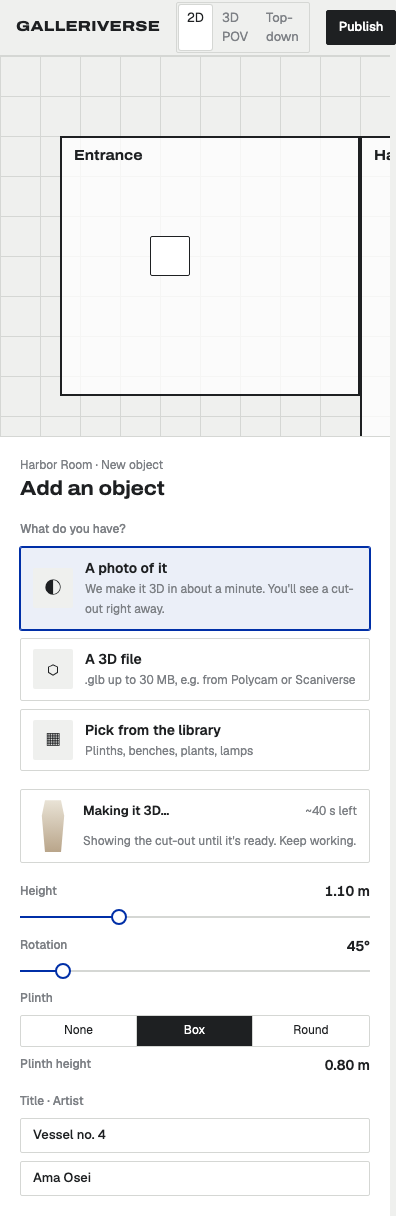
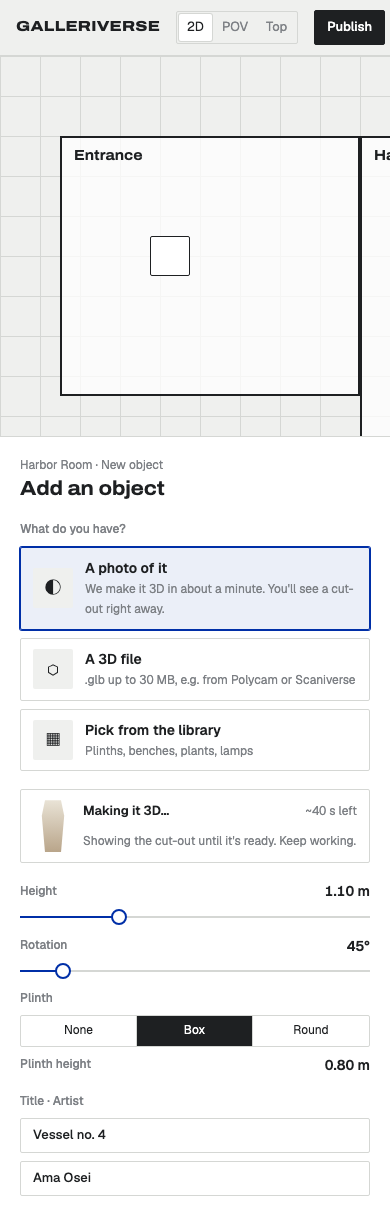
reviewer: fyi to senior T-102

diff --git a/team/senior__quang/inbox/20261010-193146-reviewer-T-102.md b/team/senior__quang/inbox/20261010-193146-reviewer-T-102.md
@@ -1,0 +1,9 @@
+---
+from: reviewer
+to: senior
+type: fyi
+task: T-102
+pr: 68
+created_at: 2026-10-10T19:31:46Z
+---
+Security note (non-blocking, already merged in T-102 / PR #68): src/lib/auth/ownership.ts stores editUrl WITH the plain edit key in the private owner index users/galleries/<userId>.json (recordGalleryOwner from POST /api/galleries). That contradicts T-031 ('only the hash is stored') and ADR-014 (the owner edits without the key). Private objects, so not exposed, but anyone with storage read access gets every key. Suggested post-freeze fix: store editUrl without the key and let the owner session authorize PUT (per ADR-014), or drop editUrl from the index. Your call whether it needs a card before 18:00.
